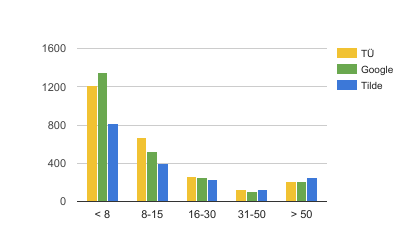
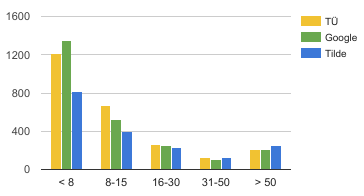
fixed small errors

diff --git a/templates/errors-et.html b/templates/errors-et.html
@@ -35,13 +35,13 @@ Tõlkekvaliteet ja vead
                             <div class="space10px"></div>
 									 
 									Mis puutub üldkvaliteeti, järgneb meie korjatud statistika teie parima tõlke valikutest nupu "mängi" alt:
-									<p><img src="/static/image/genstats.png" border="0px"></p>
+									<p><img class="noabs" src="/static/image/genstats.png"></p>
 									Pole paha, eks? Oletame, et ainus põhjus, et Tilde tundub taha jäävat on see, et nende tõlkesüsteem on pigem kohendatud tarkvara lokaliseerimiseks, tehniliste tekstide jms jaoks (me oletame). 
 									
                             <div class="space10px"></div>
 									 
 									 Muidugi, see pole üldse detailne; siin on sama statistika, eraldatuna lausepikkuse järgi:
-									<p><img src="/static/image/lenstats.png" border="0px"></p>
+									<p><img class="noabs" src="/static/image/lenstats.png"></p>
 									Nagu võite näha, Google Translate on edukaim väga lühikeste lausete puhul, ning Tilde süsteemil tulevad pikad laused välja paremini kui teistel. Meie süsteem saab kõige paremini hakkama keskmise pikkusega lausetega.
             </div>
           </div>

diff --git a/static/css/shared.css b/static/css/shared.css
@@ -188,6 +188,14 @@ img {
     margin: 0;
 }
 
+img.noabs {
+	position:relative;
+	top: 0;
+	left:0;
+	margin: 0;
+}
+
+
 textarea {
     outline: none;
 }

diff --git a/masintolge.py b/masintolge.py
@@ -163,7 +163,7 @@ def about_page_estonian(language, default_language=app_default_language):
         return render_template('about-{lang}.html'.format(lang=default_language))
 
 @app.route('/errors/<language>', methods=['GET'])
-def about_page_estonian(language, default_language=app_default_language):
+def errors_page_estonian(language, default_language=app_default_language):
     try:
         return render_template('errors-{lang}.html'.format(lang=language))
     except Exception as e:
